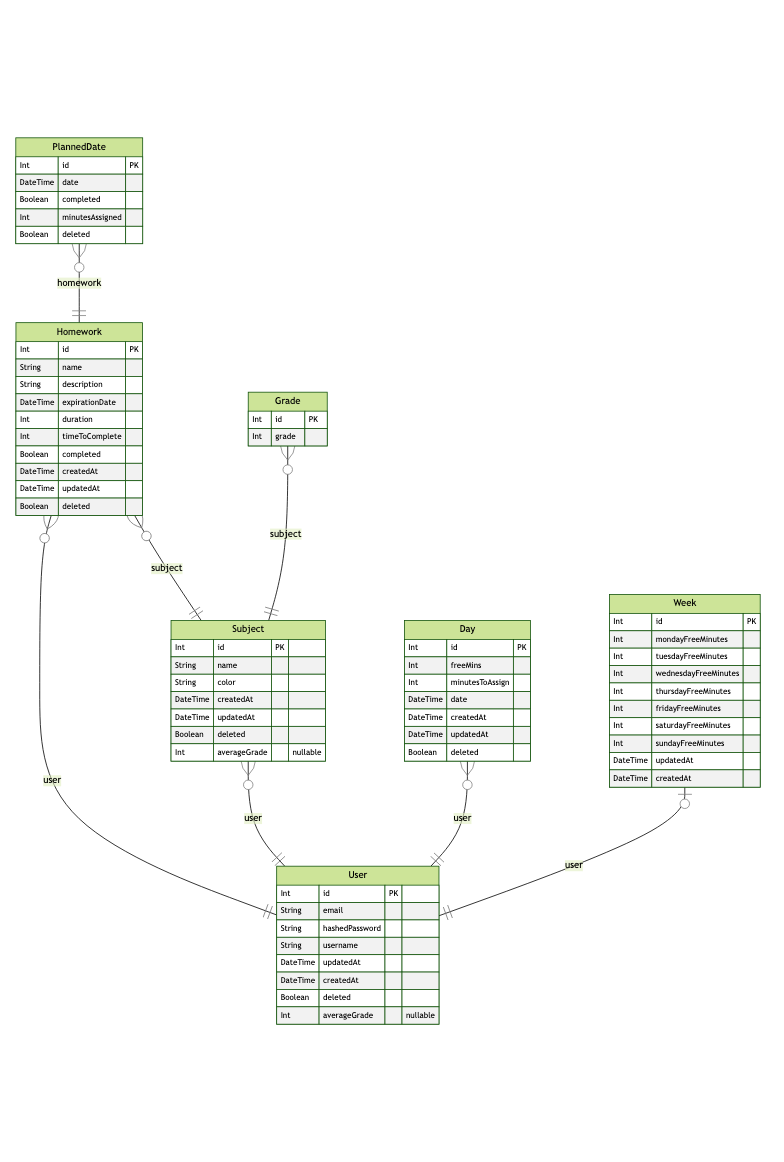
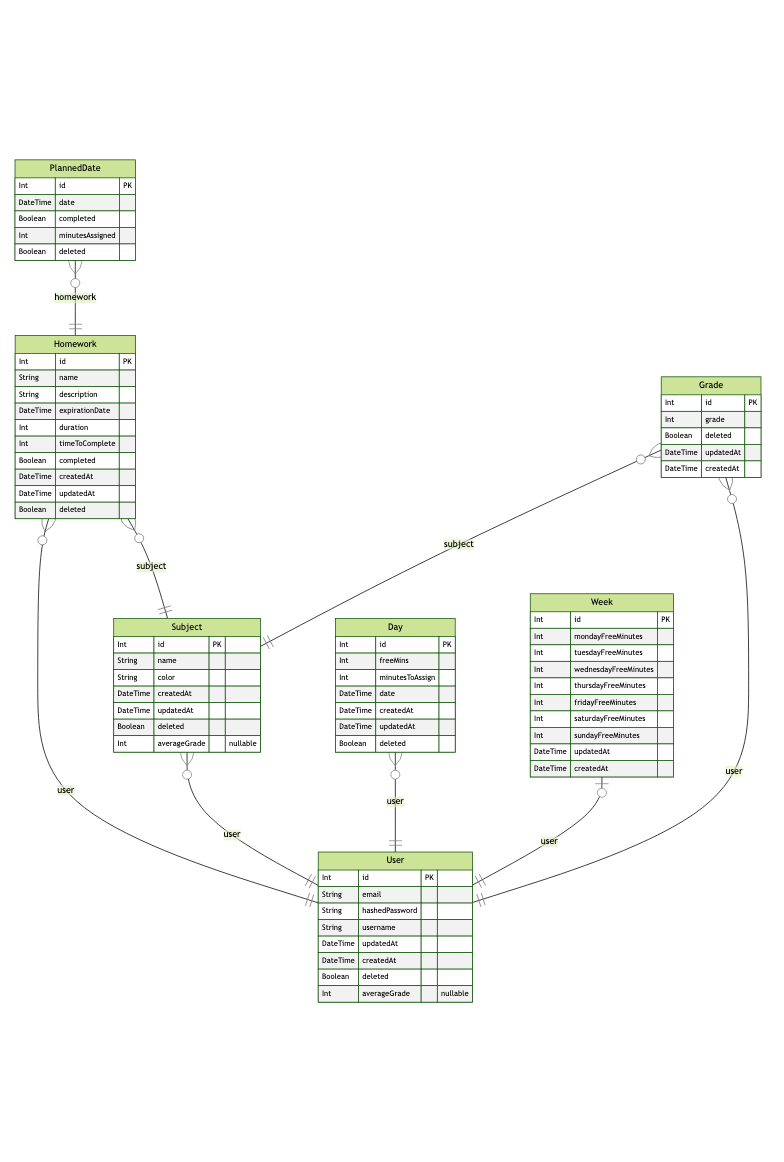
fully re created grade table

diff --git a/backend/src/controllers/grade.ts b/backend/src/controllers/grade.ts
@@ -21,6 +21,7 @@ export const createGrade = async (req: Request, res: Response) => {
       data: {
         grade: +grade,
         subjectId: +subjectId,
+        userId: +userId!,
       },
     });
     res.json(gradeResult);
@@ -48,10 +49,10 @@ export const getAllGrades = async (req: Request, res: Response) => {
             name: true,
             grades: {
               select: {
-                //grade: true,
+                grade: true,
               },
               where: {
-                //deleted: false,
+                deleted: false,
               },
             },
           },
